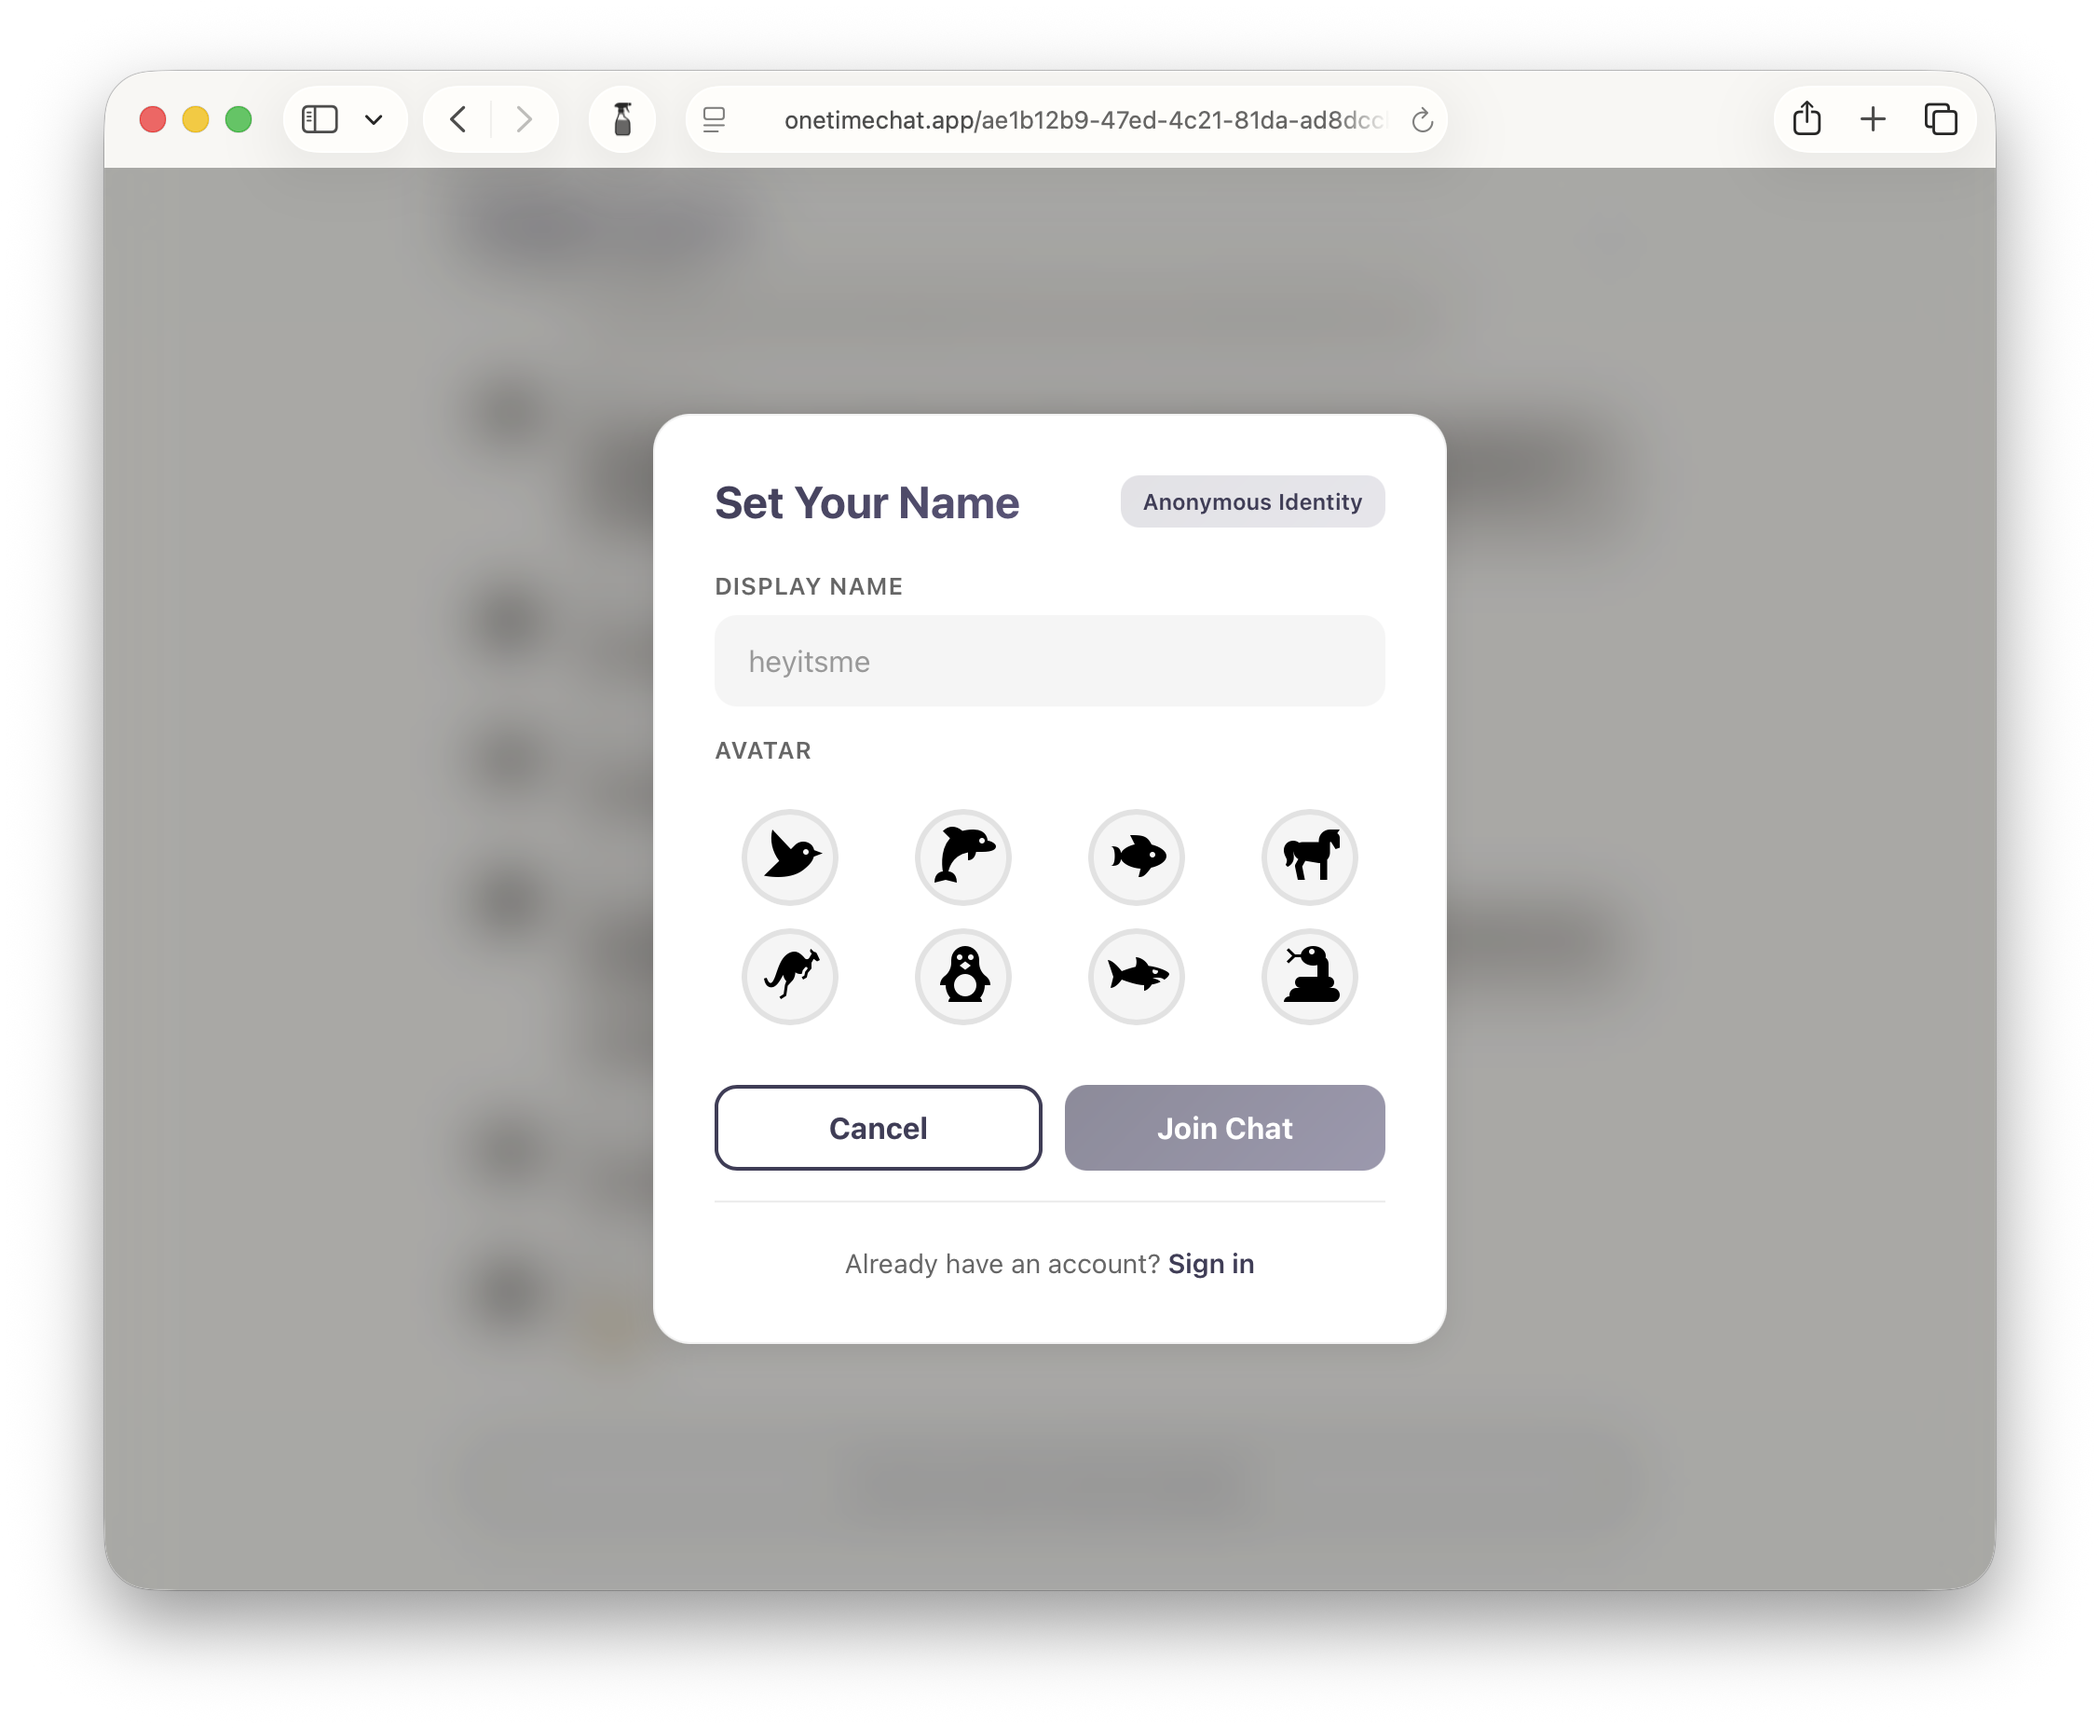
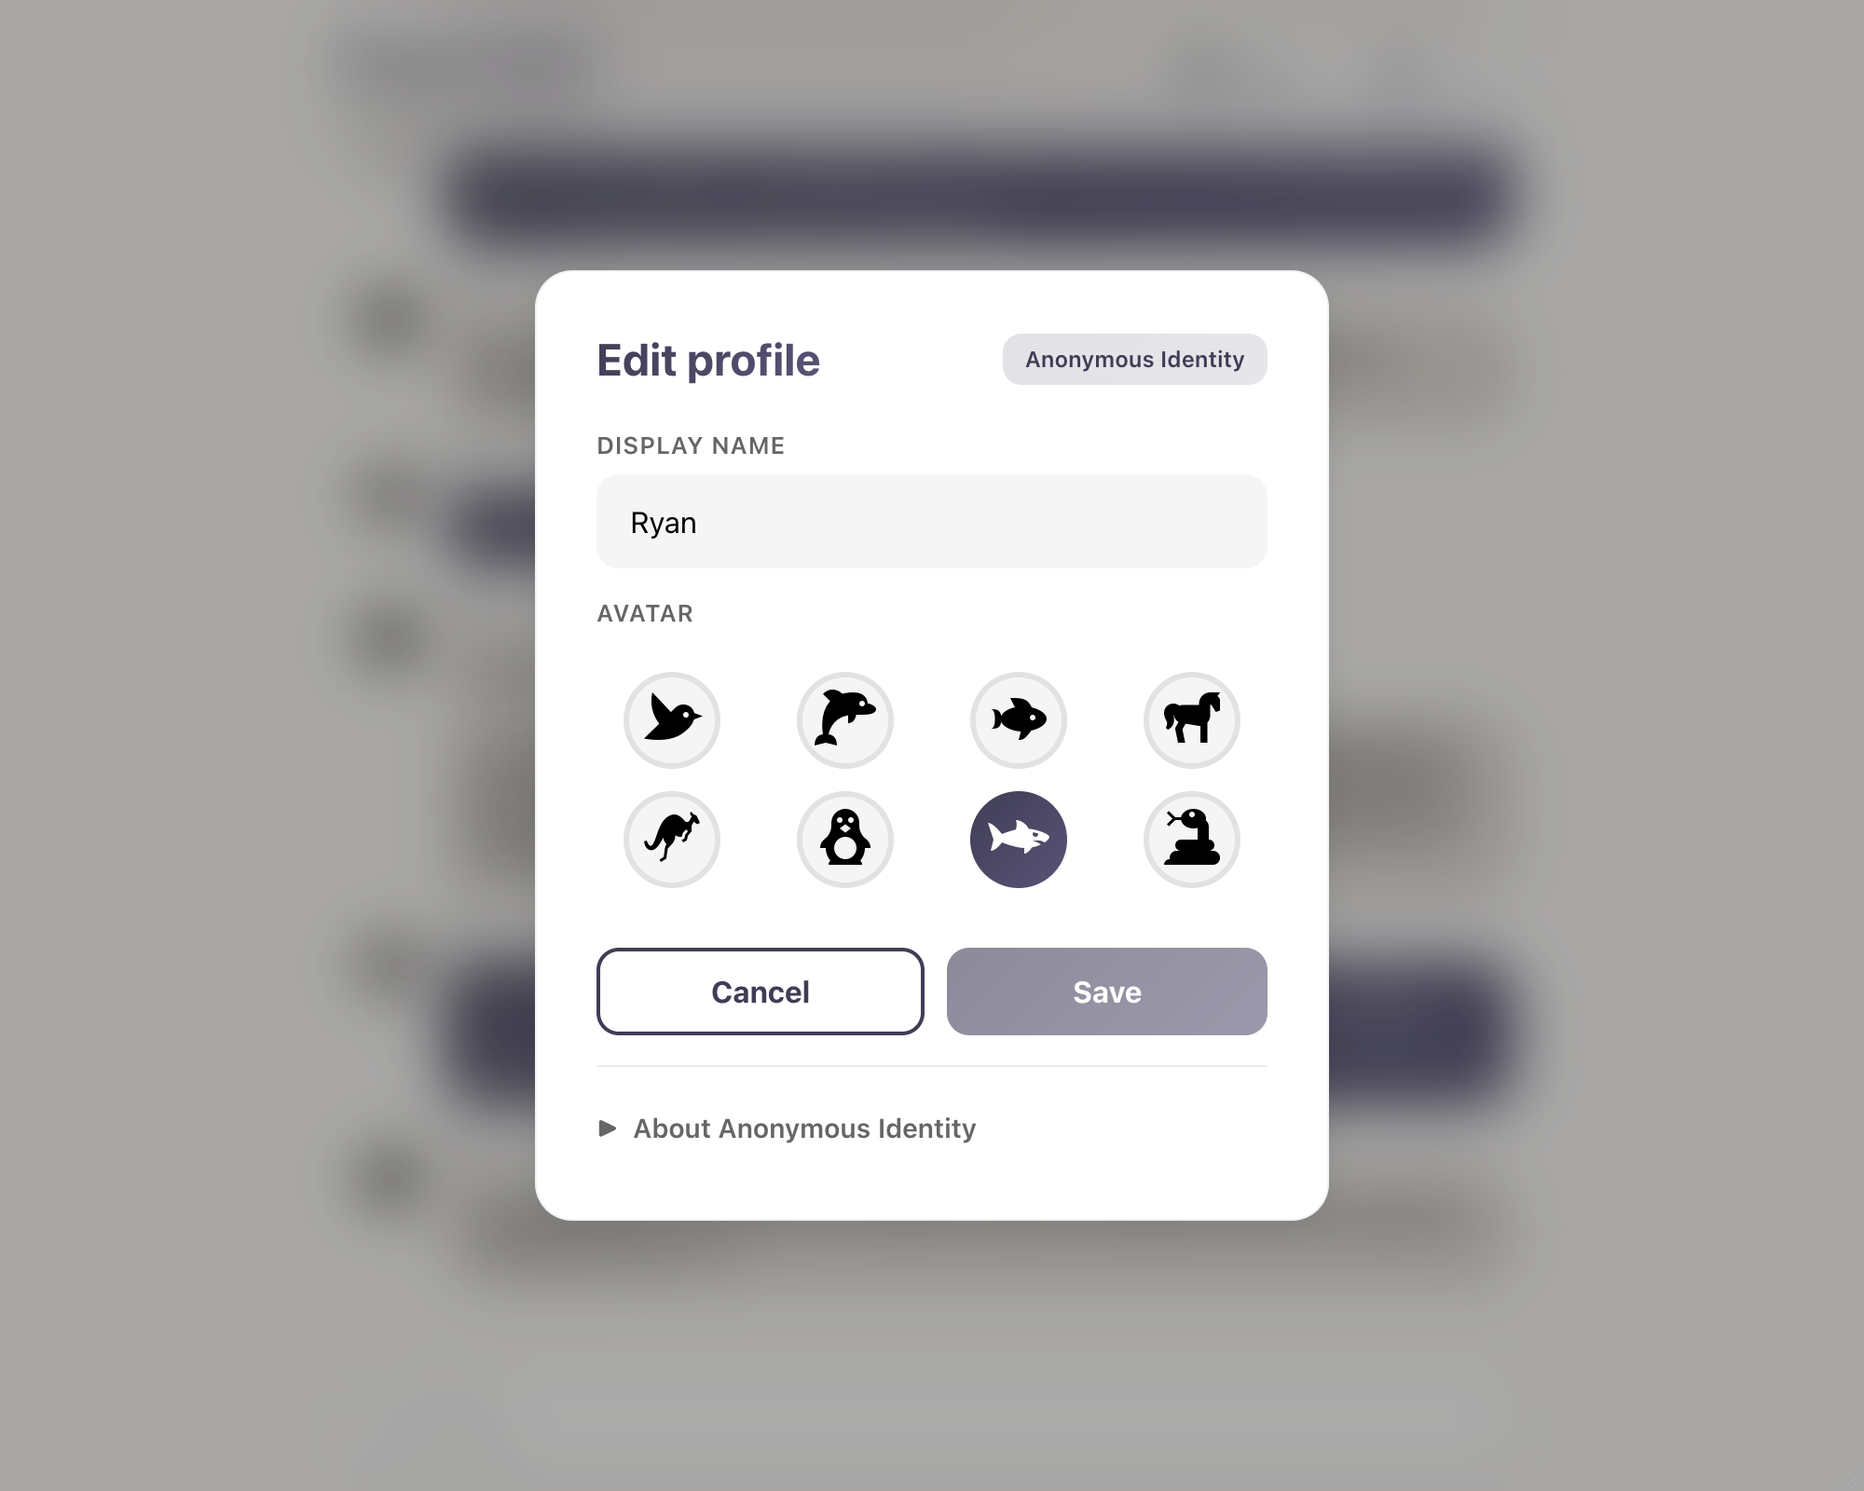
update onetimechat images

diff --git a/projects/onetimechat.html b/projects/onetimechat.html
@@ -13,7 +13,7 @@
     <meta property="og:url" content="https://johnchampion.dev/projects/onetimechat.html">
     <meta property="og:title" content="OneTimeChat: conversations without sign-ups">
     <meta property="og:description" content="Real-time messaging that requires no download and no account. Just click a link and start chatting. Perfect for temporary group coordination.">
-    <meta property="og:image" content="https://johnchampion.dev/images/onetimechat/interface.png">
+    <meta property="og:image" content="https://johnchampion.dev/images/onetimechat/chat.png">
     <meta property="og:site_name" content="John Champion">
 
     <link rel="preconnect" href="https://fonts.googleapis.com">
@@ -62,8 +62,8 @@
         </div>
 
         <div class="wide-width">
-            <div class="post-hero browser-stage browser-stage-fixed-image" style="--stage-color: #D9E1EA">
-                <div class="browser-window">
+            <div class="post-hero browser-stage" style="--stage-color: #D9E1EA">
+                <div class="post-hero-browser-contained browser-window">
                     <div class="browser-toolbar">
                         <span class="browser-toolbar-dot"></span><span class="browser-toolbar-dot"></span><span class="browser-toolbar-dot"></span>
                         <span class="browser-address">onetimechat.app/ae1b12b9…</span>
@@ -89,7 +89,7 @@
                         <span class="browser-toolbar-dot"></span><span class="browser-toolbar-dot"></span><span class="browser-toolbar-dot"></span>
                         <span class="browser-address">onetimechat.app</span>
                     </div>
-                    <img src="../images/onetimechat/interface.png" alt="OneTimeChat main conversation interface">
+                    <img src="../images/onetimechat/chat.png" alt="OneTimeChat main conversation interface">
                 </div>
             </div>
             <figcaption class="figure-caption">Clean, responsive interface that works seamlessly on desktop and mobile</figcaption>

diff --git a/css/device-frames.css b/css/device-frames.css
@@ -64,10 +64,10 @@
 .browser-window-tiny {
   --toolbar-height: 24px;
   --dot-size: 7px;
-  border-radius: 8px 0 0 0;
+  border-radius: 8px 8px 0 0;
 }
 
-/* The window bleeds off the bottom-right edge of a colored stage, cropped by overflow. */
+/* The window bleeds off the bottom edge of a colored stage, cropped by overflow. */
 .browser-stage {
   position: relative;
   overflow: hidden;
@@ -78,11 +78,11 @@
 .browser-stage .browser-window {
   position: absolute;
   left: var(--window-left, 8%);
+  right: var(--window-left, 8%);
   top: var(--window-top, 10%);
-  width: 100%;
   height: 100%;
   border: none;
-  border-radius: 10px 0 0 0;
+  border-radius: 10px 10px 0 0;
   display: flex;
   flex-direction: column;
   background: #FFFFFF;
@@ -90,21 +90,7 @@
 }
 
 .browser-stage .browser-window img {
-  flex: 1;
-  min-height: 0;
-  object-fit: cover;
-  object-position: top left;
-}
-
-.browser-stage-fixed-image .browser-window {
-  background: #F6F5F2;
-}
-
-.browser-stage-fixed-image .browser-window img {
   flex: none;
-  width: 820px;
-  max-width: none;
-  height: auto;
 }
 
 .phone-frame {

diff --git a/css/post.css b/css/post.css
@@ -101,6 +101,31 @@
   border-radius: 35px;
 }
 
+.post-hero-browser.browser-window {
+  left: 50%;
+  right: auto;
+  top: 64px;
+  width: 640px;
+  margin-left: -320px;
+}
+
+.post-hero-browser-contained.browser-window {
+  --hero-image-height: 392px;
+  left: 50%;
+  right: auto;
+  top: 50%;
+  width: calc(var(--hero-image-height) * 1.25);
+  max-width: calc(100% - 48px);
+  height: auto;
+  border-radius: 10px;
+  transform: translate(-50%, -50%);
+}
+
+.post-hero-browser-contained.browser-window img {
+  aspect-ratio: 10 / 8;
+  object-fit: contain;
+}
+
 .wide-photo {
   height: 480px;
 }
@@ -846,6 +871,18 @@
 
   .post-hero-phone img {
     border-radius: 26px;
+  }
+
+  .post-hero-browser.browser-window {
+    top: 32px;
+    left: 24px;
+    width: auto;
+    right: 24px;
+    margin-left: 0;
+  }
+
+  .post-hero-browser-contained.browser-window {
+    --hero-image-height: 236px;
   }
 
   .wide-photo,

diff --git a/index.html b/index.html
@@ -100,7 +100,7 @@
             <a href="projects/onetimechat.html" class="post-row">
                 <div class="post-row-thumbnail phone-stage" style="--stage-color: #D9E1EA">
                     <div class="post-row-phone">
-                        <img src="images/onetimechat/onetimechat-thumbnail.png" alt="OneTimeChat on a phone">
+                        <img src="images/onetimechat/chat-mobile.png" alt="OneTimeChat on a phone">
                     </div>
                 </div>
                 <div class="post-row-text">

diff --git a/projects/daily-story.html b/projects/daily-story.html
@@ -64,7 +64,7 @@
 
         <div class="wide-width">
             <div class="post-hero browser-stage" style="--stage-color: #EFE2C6">
-                <div class="browser-window">
+                <div class="post-hero-browser browser-window">
                     <div class="browser-toolbar">
                         <span class="browser-toolbar-dot"></span><span class="browser-toolbar-dot"></span><span class="browser-toolbar-dot"></span>
                         <span class="browser-address">dailystory.page</span>
